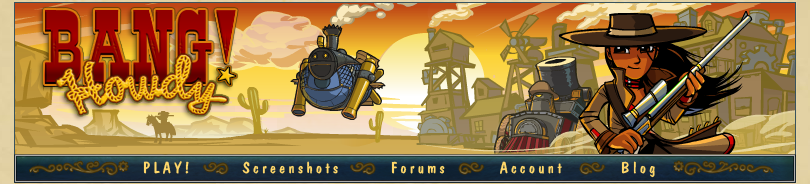
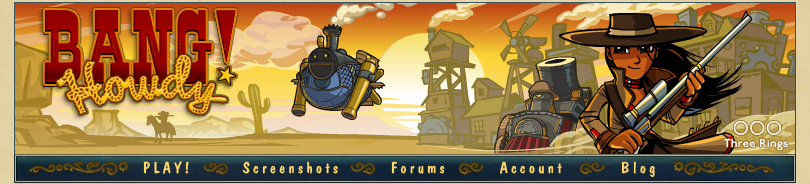
Added link to threerings.net on header, changed threerings links to pop up new window, since they leave bh.com

Changed region(s): [[0.8951, 0.6522, 0.9877, 0.8152], [0.2778, 0.462, 0.3395, 0.7337], [0.4321, 0.5978, 0.4938, 0.7337]]

diff --git a/pages/incl/header_incl.html b/pages/incl/header_incl.html
@@ -4,14 +4,15 @@
     <div id="Header">
          <div id="linkbang"><a href="/" id="btnbang">
             <i>Bang Howdy</i></a>
-    </div>
+         </div>
          <div id="linkplay"><a href="/launch.html" id="btnplay">
             <i>Play</i></a>
          </div>
          <div id="linkscreen"><a href="/screenshots/" id="btnscreen">
             <i>Screenshots</i></a>
          </div>
-         <div id="linkforum"><a href="http://forums.banghowdy.com/townhall/" id="btnforum">
+         <div id="linkforum"><a href="http://forums.banghowdy.com/townhall/" 
+             id="btnforum">
             <i>Forums</i></a>
          </div>
          <div id="linkaccount"><a href="/register/" id="btnaccount">
@@ -19,6 +20,10 @@
          </div>
          <div id="linknews"><a href="/news/" id="btnnews">
             <i>Blog</i></a>
+         </div>
+         <div id="linkthreerings"><a href="http://www.threerings.net" 
+             id="btnthreerings" onclick="this.target='_blank';">
+            <i>Three Rings</i></a>
          </div>
     </div>
  

diff --git a/pages/incl/footer_incl.html b/pages/incl/footer_incl.html
@@ -2,15 +2,18 @@
 </div>
 
 <div id="Divide">
-    <div id="linklogo"><a href="http://www.threerings.net/" id="btnlogo">
-            <i>Three Rings</i></a>
+    <div id="linklogo"><a href="http://www.threerings.net/" id="btnlogo"
+         onclick="this.target='_blank';">
+         <i>Three Rings</i></a>
     </div>
 </div>
 <div id="Footer" class="small">
     Bang! Howdy&trade; &copy;
-    <a href="http://www.threerings.net/" class="small">Three Rings Design, Inc.</a>
+    <a href="http://www.threerings.net/" class="small" onclick="this.target='_blank';">
+    Three Rings Design, Inc.</a>
     2005-2006. All rights reserved.
-    <a href="http://www.threerings.net/about/privacy.html" class="small">Privacy</a>
+    <a href="http://www.threerings.net/about/privacy.html" class="small"
+         onclick="this.target='_blank';">Privacy</a>
 </div>
 
 </div>

diff --git a/pages/style.css b/pages/style.css
@@ -202,6 +202,22 @@ a#btnnews:hover {
     border: none;
 }
 
+#linkthreerings a {
+    position: absolute;
+    width: 75px;
+    height: 35px;
+    top: 115px;
+    left: 720px;
+    margin: 0px;
+    padding: 0px;
+    text-decoration: none;
+    overflow: hidden;
+  }
+
+#linkthreerings a i { 
+    visibility: hidden; 
+}
+
 /* -------------------------------------------------
    CONTENT
 ------------------------------------------------- */
@@ -235,7 +251,7 @@ a#btnnews:hover {
     width: 70px;
     height: 30px;
     top: 0px;
-    left: 355px;
+    left: 370px;
     margin: 0px;
     padding: 0px;
     text-decoration: none;
